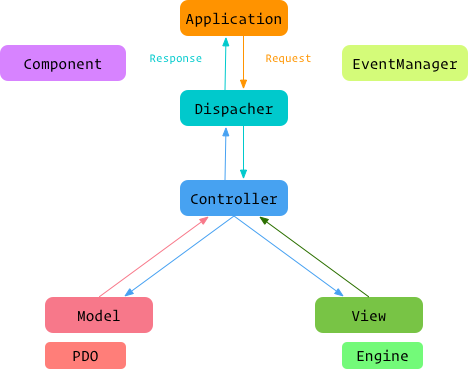
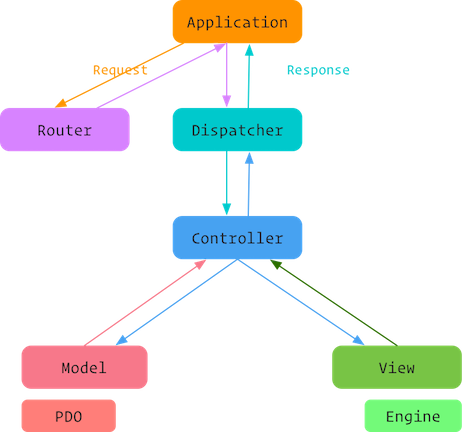
更新 lifecycle 说明

diff --git a/config/services.php b/config/services.php
@@ -38,7 +38,7 @@ $container->setShared('logger', function () {
 
 // 路由
 $container->setShared('router', function () {
-    $routesConfig = include BASE_PATH . '/config/routes.php';
+    $routesConfig = require BASE_PATH . '/config/routes.php';
 
     $router = new \Soli\Router();
 

diff --git a/README.md b/README.md
@@ -20,12 +20,12 @@ MVC、[依赖注入]、[事件管理]、[闪存消息]、[模版引擎]（[Twig]
 
 从上图我们可以看到 Soli 请求的处理流程为：
 
-[Application] 接收 HTTP [请求]之后，交给控制器[调度器]，[控制器]处理应用程序的业务流程，
-调用相应的[模型]和[视图]，并将处理结果通过调度器返给 Application 做最终的 HTTP [响应]封装。
+[Application] 将接收到的 HTTP [请求]交给[路由]处理，并将路由结果交给控制器[调度器]；
+[控制器]处理应用程序的业务逻辑，调用相应的[模型]和[视图]，并将处理结果通过调度器返给 Application 做最终的 HTTP [响应]封装。
 
 而开发者拿到响应之后，就可以做输出等操作。
 
-Soli 通过[依赖注入]容器提供的[组件]机制，可以供开发者在开发组件时方便的使用容器中的各种服务。
+另外，Soli 通过[依赖注入]容器提供的[组件]机制，可以供开发者在开发组件时方便的使用容器中的各种服务。
 
 Soli 的[事件管理]器允许开发者通过创建"钩子"拦截框架或应用中的部分组件操作。
 以便获得状态信息、操纵数据或者改变某个组件进程中的执行流向。
@@ -50,7 +50,7 @@ server
     listen 80;
     server_name www.soliphp.com;
     index index.html index.php;
-    root  /path/to/soli/app/public;
+    root  /path/to/soliphp/public;
 
     location / {
         try_files $uri $uri/ /index.php?$query_string;
@@ -71,11 +71,11 @@ server
 <VirtualHost *:80>
 
     ServerAdmin admin@example.host
-    DocumentRoot "/path/to/soli/app/public"
+    DocumentRoot "/path/to/soliphp/public"
     DirectoryIndex index.php
     ServerName www.soliphp.com
 
-    <Directory "/path/to/soli/app/public">
+    <Directory "/path/to/soliphp/public">
         Options All
         AllowOverride All
         Allow from all
@@ -193,7 +193,7 @@ server
 
     // 路由
     $container->setShared('router', function () {
-        $routesConfig = include BASE_PATH . '/config/routes.php';
+        $routesConfig = require BASE_PATH . '/config/routes.php';
 
         $router = new \Soli\Router();
 
@@ -368,8 +368,8 @@ Soli 模型支持的方法请移步 [soliphp/db]。
 [视图]文件存放在 views 目录下，控制器与视图对应关系的目录结构为：
 
     ├── app                          应用程序目录
-    │   ├── Controllers              WEB应用控制器目录
-    │   │   └── UserController.php
+    │   └── Controllers              WEB应用控制器目录
+    │       └── UserController.php
     └── views                        视图文件目录
         └── user                     UserController 对应的视图目录
             └── view.twig            view 函数对应的视图文件
@@ -397,7 +397,7 @@ Soli 模型支持的方法请移步 [soliphp/db]。
 
     {{ flash.output() }}
 
-更多视图的使用方法，请移步 [Soli\View]。
+更多视图的使用方法，请移步 [soliphp/view]。
 
 感谢您的阅读。
 
